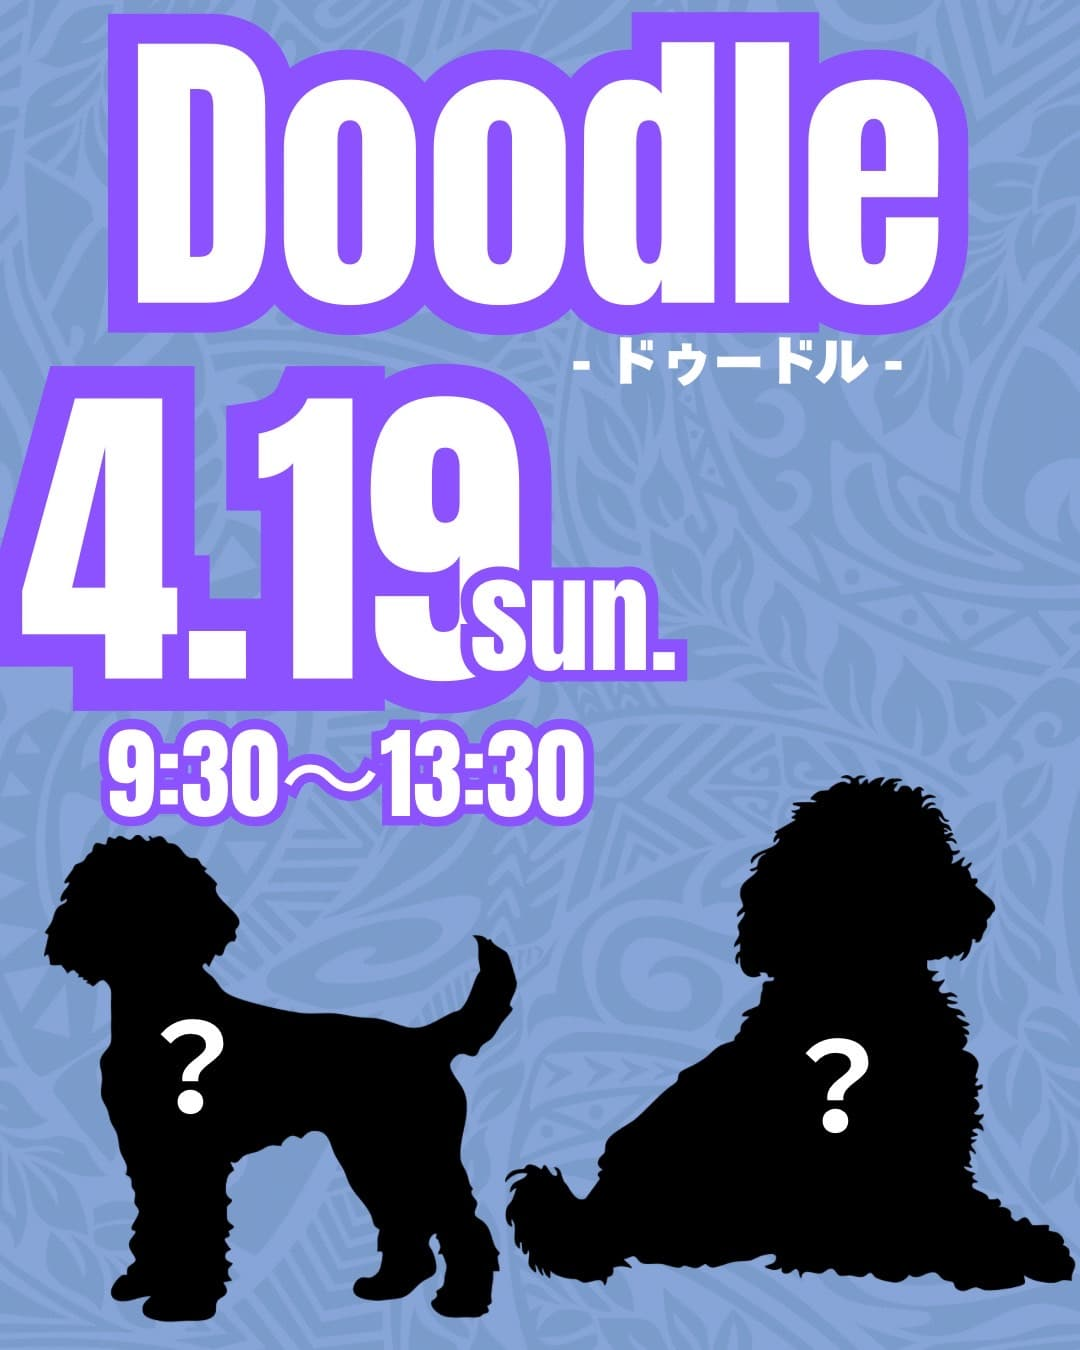
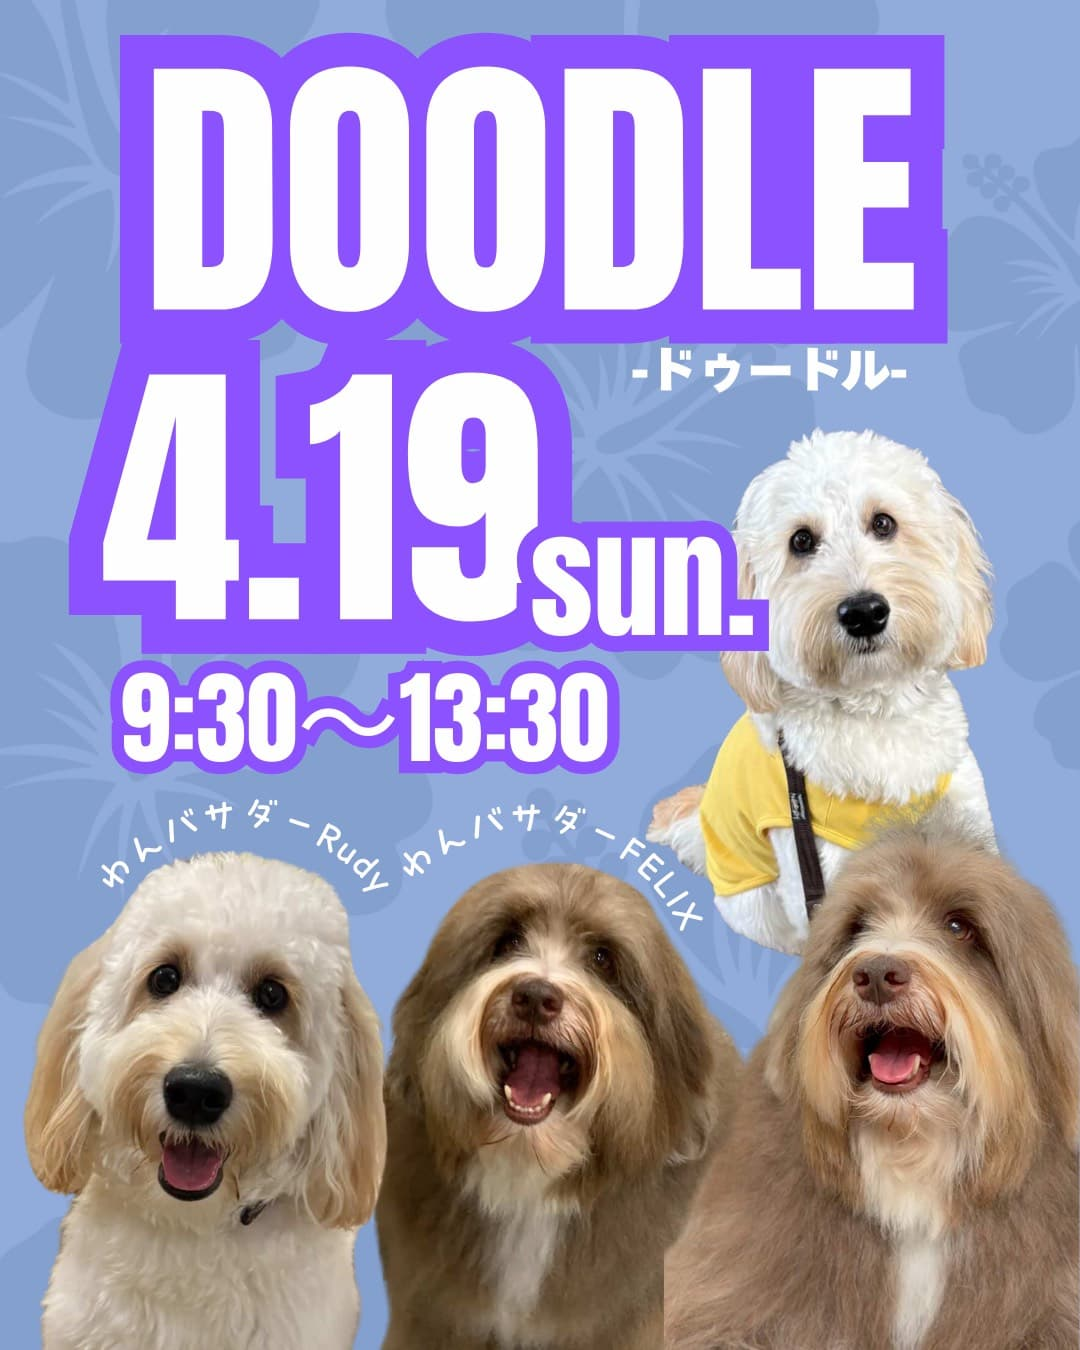
イベント追加及び既存イベントPOP差し替え

diff --git a/index.html b/index.html
@@ -480,23 +480,26 @@
       <p class="muted">2026年3月22日 09:30〜13:30</p>
     </article>
 
-        <article class="card fade-up event-card">
+    <article class="card fade-up event-card">
       <img src="images/event8.jpg" alt="イベント画像" style="width:100%; border-radius:12px; margin-bottom:8px;">
       <h4>ドゥードルオフ会</h4>
       <p class="muted">2026年4月19日 09:30〜13:30</p>
     </article>
 
-        </article>
-
-        <article class="card fade-up event-card">
+    <article class="card fade-up event-card">
       <img src="images/event9.jpg" alt="イベント画像" style="width:100%; border-radius:12px; margin-bottom:8px;">
       <h4>ダルメシアンオフ会</h4>
       <p class="muted">2026年4月26日 09:30〜13:30</p>
     </article>
 
+    <article class="card fade-up event-card">
+      <img src="images/event10.jpg" alt="イベント画像" style="width:100%; border-radius:12px; margin-bottom:8px;">
+      <h4>コーギーオフ会</h4>
+      <p class="muted">2026年5月10日 09:30〜13:30</p>
+    </article>
+
   </div>
 </section>
-
 
     <!-- FORM -->
     <section id="form" style="margin-top:28px;">
@@ -510,6 +513,7 @@
             <option value="バーニーズ×グレピオフ会">バーニーズ×グレピオフ会 (2026年3月22日)</option>
             <option value="ドゥードルオフ会">ドゥードルオフ会 (2026年4月19日)</option>
             <option value="ダルメシアンオフ会">ダルメシアンオフ会 (2026年4月26日)</option>
+            <option value="コーギーオフ会">コーギーオフ会 (2026年5月10日)</option>
           </select>
         </label>
 
